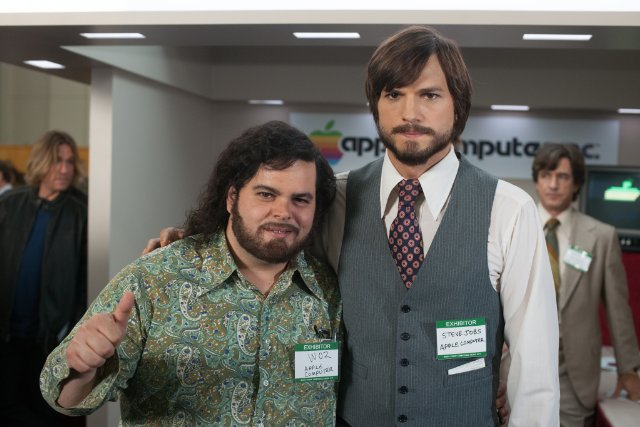
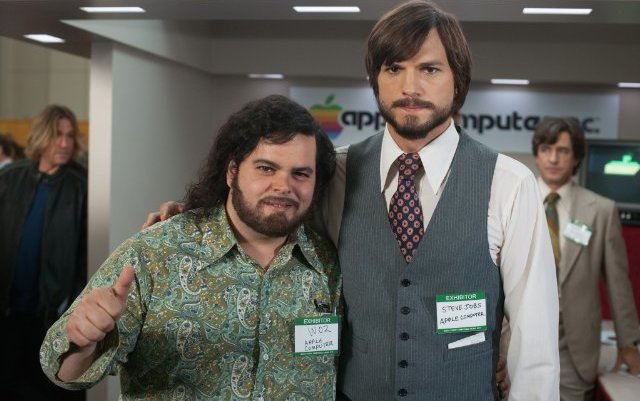
Fixed Ashton's pic Fixed link to blog and work in menu

diff --git a/_site/blog/index.html b/_site/blog/index.html
@@ -57,16 +57,16 @@
     <nav>
       <ul id="desktop">
         <li><a href="">Daniel Fosco</a></li>
-        <li><a href="/#things-ive-done">Work</a></li>
-        <li><a href="http://blog.danielfos.co">Blog</a></li>
+        <li><a href="/#recent-projects">Work</a></li>
+        <li><a href="http://danielfos.co/blog">Blog</a></li>
         <li><a href="/#say-hi">Say Hi</a></li>
       </ul>
 
     
       <ul id="mobile">
         <li><a href="">Daniel Fosco</a></li>
-        <li class="hidden"><a href="/#things-ive-done">Work</a></li>
-        <li class="hidden"><a href="http://blog.danielfos.co">Blog</a></li>
+        <li class="hidden"><a href="/#recent-projects">Work</a></li>
+        <li class="hidden"><a href="http://danielfos.co/blog">Blog</a></li>
         <li class="hidden"><a href="/#say-hi">Say Hi</a></li>
       </ul>
     </nav>
@@ -79,7 +79,7 @@
             <article>
 
   <div class="post-header">
-    <img src="/assets/img/ashton.jpeg" alt="Hi Ashton">
+    <img src="/assets/img/ashton.jpg" alt="Hi Ashton">
     <h1>The Ecosystem</h1>
     <h2>Or how to have 100 apps and a bunch of them, well, a bunch of them kinda suck.</h2>
   </div>
@@ -115,7 +115,7 @@
   <li>and a <em>miniaturized wrist watch Computer</em>…</li>
 </ul>
 
-<p>it’s a lot to juggle. At US$ 170 billion revenue and 98,000 employees, one has to wonder how much more can Apple grow without wearing itself thin even further.</p>
+<p>It’s a lot to juggle. At US$ 170 billion revenue and 98,000 employees, one has to wonder how much more can Apple grow without wearing itself thin even further.</p>
 
 <h3 id="lets-face-it-a-bunch-of-apple-apps-suck">Let’s face it: a bunch of Apple apps suck</h3>
 

diff --git a/_site/blog/the-ecosystem/index.html b/_site/blog/the-ecosystem/index.html
@@ -57,16 +57,16 @@
     <nav>
       <ul id="desktop">
         <li><a href="">Daniel Fosco</a></li>
-        <li><a href="/#things-ive-done">Work</a></li>
-        <li><a href="http://blog.danielfos.co">Blog</a></li>
+        <li><a href="/#recent-projects">Work</a></li>
+        <li><a href="http://danielfos.co/blog">Blog</a></li>
         <li><a href="/#say-hi">Say Hi</a></li>
       </ul>
 
     
       <ul id="mobile">
         <li><a href="">Daniel Fosco</a></li>
-        <li class="hidden"><a href="/#things-ive-done">Work</a></li>
-        <li class="hidden"><a href="http://blog.danielfos.co">Blog</a></li>
+        <li class="hidden"><a href="/#recent-projects">Work</a></li>
+        <li class="hidden"><a href="http://danielfos.co/blog">Blog</a></li>
         <li class="hidden"><a href="/#say-hi">Say Hi</a></li>
       </ul>
     </nav>
@@ -79,7 +79,7 @@
             <article>
 
   <div class="post-header">
-    <img src="/assets/img/ashton.jpeg" alt="Hi Ashton">
+    <img src="/assets/img/ashton.jpg" alt="Hi Ashton">
     <h1>The Ecosystem</h1>
     <h2>Or how to have 100 apps and a bunch of them, well, a bunch of them kinda suck.</h2>
   </div>

diff --git a/_includes/header.html b/_includes/header.html
@@ -3,16 +3,16 @@
     <nav>
       <ul id="desktop">
         <li><a href="{{ site.url }}">Daniel Fosco</a></li>
-        <li><a href="{{ site.url }}/#things-ive-done">Work</a></li>
-        <li><a href="http://blog.danielfos.co">Blog</a></li>
+        <li><a href="{{ site.url }}/#recent-projects">Work</a></li>
+        <li><a href="http://danielfos.co/blog">Blog</a></li>
         <li><a href="{{ site.url }}/#say-hi">Say Hi</a></li>
       </ul>
 
     
       <ul id="mobile">
         <li><a href="{{ site.url }}">Daniel Fosco</a></li>
-        <li class="hidden"><a href="{{ site.url }}/#things-ive-done">Work</a></li>
-        <li class="hidden"><a href="http://blog.danielfos.co">Blog</a></li>
+        <li class="hidden"><a href="{{ site.url }}/#recent-projects">Work</a></li>
+        <li class="hidden"><a href="http://danielfos.co/blog">Blog</a></li>
         <li class="hidden"><a href="{{ site.url }}/#say-hi">Say Hi</a></li>
       </ul>
     </nav>

diff --git a/_site/about/index.html b/_site/about/index.html
@@ -57,16 +57,16 @@
     <nav>
       <ul id="desktop">
         <li><a href="">Daniel Fosco</a></li>
-        <li><a href="/#things-ive-done">Work</a></li>
-        <li><a href="http://blog.danielfos.co">Blog</a></li>
+        <li><a href="/#recent-projects">Work</a></li>
+        <li><a href="http://danielfos.co/blog">Blog</a></li>
         <li><a href="/#say-hi">Say Hi</a></li>
       </ul>
 
     
       <ul id="mobile">
         <li><a href="">Daniel Fosco</a></li>
-        <li class="hidden"><a href="/#things-ive-done">Work</a></li>
-        <li class="hidden"><a href="http://blog.danielfos.co">Blog</a></li>
+        <li class="hidden"><a href="/#recent-projects">Work</a></li>
+        <li class="hidden"><a href="http://danielfos.co/blog">Blog</a></li>
         <li class="hidden"><a href="/#say-hi">Say Hi</a></li>
       </ul>
     </nav>

diff --git a/_site/instagram-print/index.html b/_site/instagram-print/index.html
@@ -57,16 +57,16 @@
     <nav>
       <ul id="desktop">
         <li><a href="">Daniel Fosco</a></li>
-        <li><a href="/#things-ive-done">Work</a></li>
-        <li><a href="http://blog.danielfos.co">Blog</a></li>
+        <li><a href="/#recent-projects">Work</a></li>
+        <li><a href="http://danielfos.co/blog">Blog</a></li>
         <li><a href="/#say-hi">Say Hi</a></li>
       </ul>
 
     
       <ul id="mobile">
         <li><a href="">Daniel Fosco</a></li>
-        <li class="hidden"><a href="/#things-ive-done">Work</a></li>
-        <li class="hidden"><a href="http://blog.danielfos.co">Blog</a></li>
+        <li class="hidden"><a href="/#recent-projects">Work</a></li>
+        <li class="hidden"><a href="http://danielfos.co/blog">Blog</a></li>
         <li class="hidden"><a href="/#say-hi">Say Hi</a></li>
       </ul>
     </nav>

diff --git a/_site/jekyll/update/2014/07/15/welcome-to-jekyll/index.html b/_site/jekyll/update/2014/07/15/welcome-to-jekyll/index.html
@@ -57,16 +57,16 @@
     <nav>
       <ul id="desktop">
         <li><a href="">Daniel Fosco</a></li>
-        <li><a href="/#things-ive-done">Work</a></li>
-        <li><a href="http://blog.danielfos.co">Blog</a></li>
+        <li><a href="/#recent-projects">Work</a></li>
+        <li><a href="http://danielfos.co/blog">Blog</a></li>
         <li><a href="/#say-hi">Say Hi</a></li>
       </ul>
 
     
       <ul id="mobile">
         <li><a href="">Daniel Fosco</a></li>
-        <li class="hidden"><a href="/#things-ive-done">Work</a></li>
-        <li class="hidden"><a href="http://blog.danielfos.co">Blog</a></li>
+        <li class="hidden"><a href="/#recent-projects">Work</a></li>
+        <li class="hidden"><a href="http://danielfos.co/blog">Blog</a></li>
         <li class="hidden"><a href="/#say-hi">Say Hi</a></li>
       </ul>
     </nav>

diff --git a/blog/index.md b/blog/index.md
@@ -2,7 +2,7 @@
 layout: post
 title: The Ecosystem
 tagline: Or how to have 100 apps and a bunch of them, well, a bunch of them kinda suck.
-hero: /assets/img/ashton.jpeg
+hero: /assets/img/ashton.jpg
 hero-alt: Hi Ashton
 ---
 
@@ -34,7 +34,7 @@ Still, when you have to develop and improve:
  - A brand new programming language
  - and a _miniaturized wrist watch Computer_...
 
-it's a lot to juggle. At US$ 170 billion revenue and 98,000 employees, one has to wonder how much more can Apple grow without wearing itself thin even further.
+It's a lot to juggle. At US$ 170 billion revenue and 98,000 employees, one has to wonder how much more can Apple grow without wearing itself thin even further.
 
 ###Let's face it: a bunch of Apple apps suck
 

diff --git a/blog/the-ecosystem.md b/blog/the-ecosystem.md
@@ -2,7 +2,7 @@
 layout: post
 title: The Ecosystem
 tagline: Or how to have 100 apps and a bunch of them, well, a bunch of them kinda suck.
-hero: /assets/img/ashton.jpeg
+hero: /assets/img/ashton.jpg
 hero-alt: Hi Ashton
 ---
 
